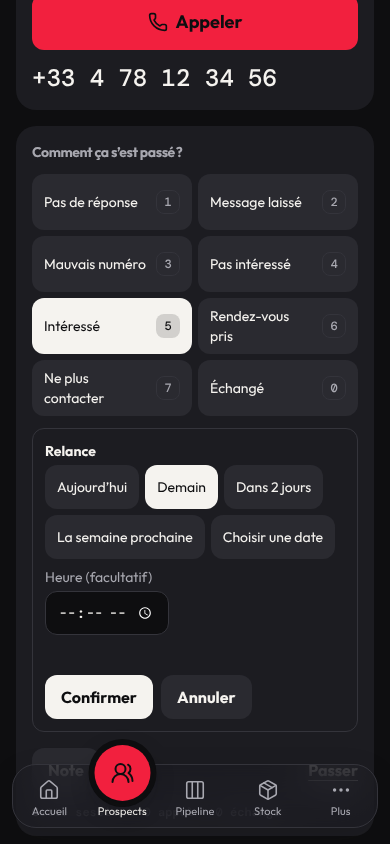
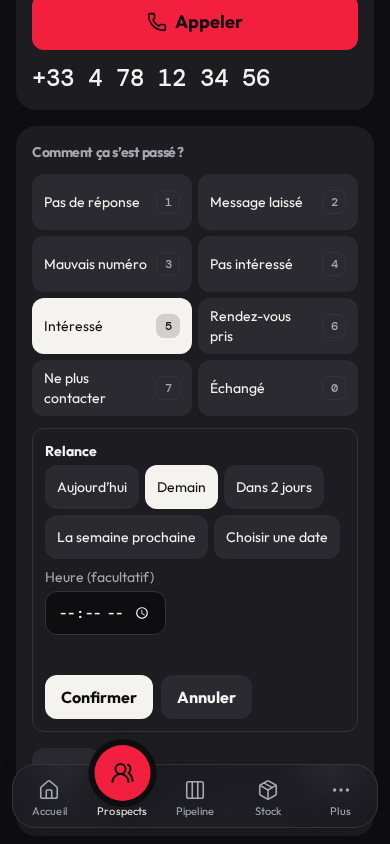
Queue: the follow-up comes into view at every width; Cancel hands the focus to the heading first
Chromium CI (Chrome Headless Shell 156) failed two tests on 5ff57c8, reproduced locally with that exact build:
- screens queue-followup-view, FR 1440: on a 900 px tall screen the follow-up panel ran past the fold and Confirm was
  off screen (French chips wrap further). The panel was scrolled into view only below 1024; it now scrolls into view
  at every width, clear of the dock, and takes the focus only below 1024 (desktop keys keep working).
- phone_followup_in_view: Cancel removed the panel, and the Cancel button in it, before the next-frame focus moved to
  the heading, so on a slow runner the focus sat on the page. Cancel now focuses the heading first; the frame stays as
  a fallback.

queue.spec + tasks.spec 32 passed on Chromium 156; lint, typecheck, 345 unit tests passed. Follow-up shots re-taken.

Claude-Session: https://claude.ai/code/session_017iY13emXgm4frkkmSZrEnt

diff --git a/src/components/queue/queue-rail.tsx b/src/components/queue/queue-rail.tsx
@@ -44,16 +44,17 @@ export const QueueRail = forwardRef<HTMLTextAreaElement, {
   if (p.noNumber) disabled.wrong_number = true;
   if (p.disabled) disabled.do_not_contact = true;
 
-  // Below 1024 the follow-up (5, 6, 0) and the Do not contact question open under the pad, which can be below the fold
-  // and behind the dock on a phone: they are scrolled into view (clear of the dock) and take the focus, so the tap
-  // visibly opens them and Confirm is in reach. At desktop width the rail is beside the card: nothing moves.
+  // The follow-up (5, 6, 0) and the Do not contact question open under the pad, which can be below the fold (on a phone,
+  // and on a laptop screen 900 px tall, more so in French): they are scrolled into view, clear of the dock, so Confirm
+  // is in reach. Below 1024 they also take the focus, so the tap visibly opens them; at desktop width the focus stays
+  // where it was (the keys go on working: Enter confirms, Escape cancels).
   const panelRef = useRef<HTMLDivElement>(null);
   const choice = p.choice;
   useEffect(() => {
     const panel = panelRef.current;
-    if (!choice || !panel || window.matchMedia("(min-width: 1024px)").matches) return;
+    if (!choice || !panel) return;
     const reduce = window.matchMedia("(prefers-reduced-motion: reduce)").matches;
-    panel.focus({ preventScroll: true });
+    if (!window.matchMedia("(min-width: 1024px)").matches) panel.focus({ preventScroll: true });
     panel.scrollIntoView({ block: "nearest", behavior: reduce ? "auto" : "smooth" });
   }, [choice]);
 
@@ -67,6 +68,7 @@ export const QueueRail = forwardRef<HTMLTextAreaElement, {
         {expanded ? (
           <div
             ref={panelRef}
+            data-queue-panel
             tabIndex={-1}
             role="group"
             aria-label={tOut(p.choice ?? "connected")}

diff --git a/src/components/queue/queue-workspace.tsx b/src/components/queue/queue-workspace.tsx
@@ -295,6 +295,10 @@ export function QueueWorkspace({
   // Cancel the follow-up or the Do not contact question: if the focus was inside it (phones move it there), it goes
   // back to the card's heading instead of the page.
   const cancelChoice = useCallback(() => {
+    // The focus goes to the card's heading before the panel (and the Cancel button in it) goes away, so it never drops
+    // to the page; the frame after is a fallback in case something else took it and then vanished.
+    const active = document.activeElement;
+    if (!active || active === document.body || active.closest("[data-queue-panel]")) headingRef.current?.focus();
     setChoice(null);
     requestAnimationFrame(() => {
       const active = document.activeElement;

diff --git a/docs/log.md b/docs/log.md
@@ -204,3 +204,4 @@
 | 2026-10-12 | Haider | Haider, 12 Oct: queue speed misses accepted for now (longest task during an advance 58-112 ms vs 50; loading card on fast key bursts); revisit in Day 7 polish. The Day 4c speed question (README Open risks, "Question for Haider") is answered |
 | 2026-10-12 | builder | Day 4c review round 4 (verifier round 3 NOT READY: N1 to N3, all should-fix), fixed as suggested on `day4c-local`: (N1) an earlier session's claim answer works out the leads to let go inside its release job, at run time, so a Start queued meanwhile keeps the lead it got back (e2e `restart_while_in_flight`); (N2) U and Cmd/Ctrl+Z on the start screen take back the latest outcome when `canUndo()` (e2e `undo_on_start_screen`); (N3) the Tasks list is keyed by scope and tab, so a switch does not animate every row (e2e `switch_without_motion`). Each test failed on a build without its fix. README "Review round 4" |
 | 2026-10-12 | builder | PR #15 (Day 4c plus the go-live kit docs) opened at 55a8de8. Advisor: **APPROVED** on two conditions (CI green on the head; `/security-review` on the head clean and recorded). `/security-review` on 55a8de8: no findings (recorded in docs/evidence/day4c/security-review.md). Advisor notes kept for Day 7: Tasks at 390 in French (date chips scroll with no fade, the Done tab cut to "Termin"); the one `exhaustive-deps` suppression in queue-workspace.tsx; the go-live kit needs its own advisor APPROVED before use (its part A says so) |
+| 2026-10-14 | builder | PR #15 Chromium CI fixes (CI runs Chrome Headless Shell 156; reproduced locally with that exact build): (1) at 1440 x 900 the follow-up panel ran past the fold (Confirm off screen in French) because it was scrolled into view only below 1024; it now scrolls into view at every width, and takes the focus only below 1024; (2) Cancel moves the focus to the card heading before the panel unmounts, so the focus never drops to the page (CI was slow enough for the old next-frame focus to come after the check). queue.spec + tasks.spec 32 passed on Chromium 156; lint, typecheck, 345 unit tests passed; WebKit checked in CI. Follow-up shots re-taken |
